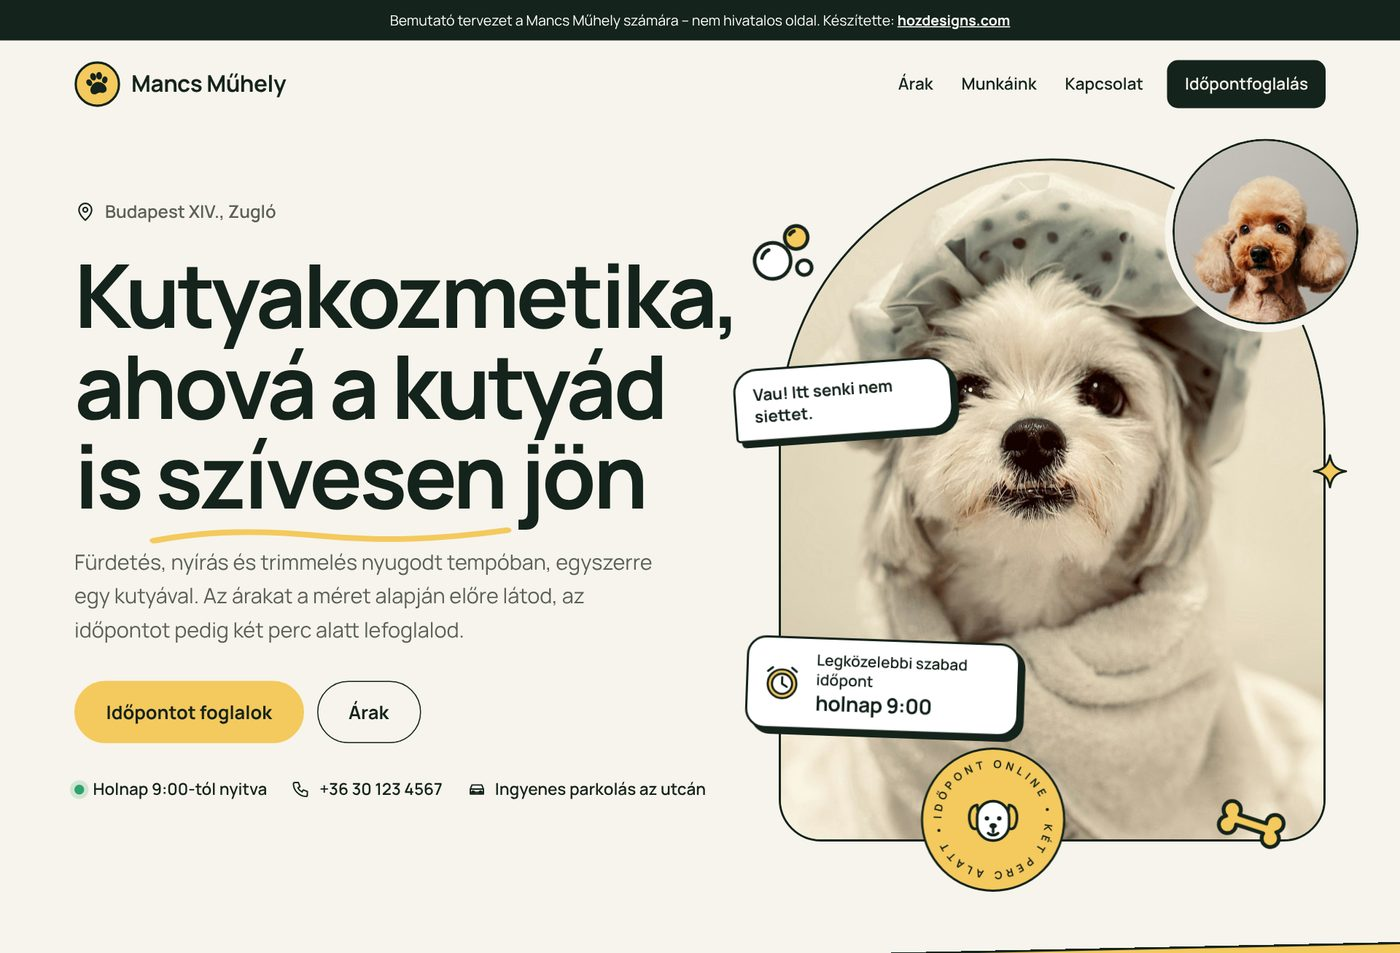
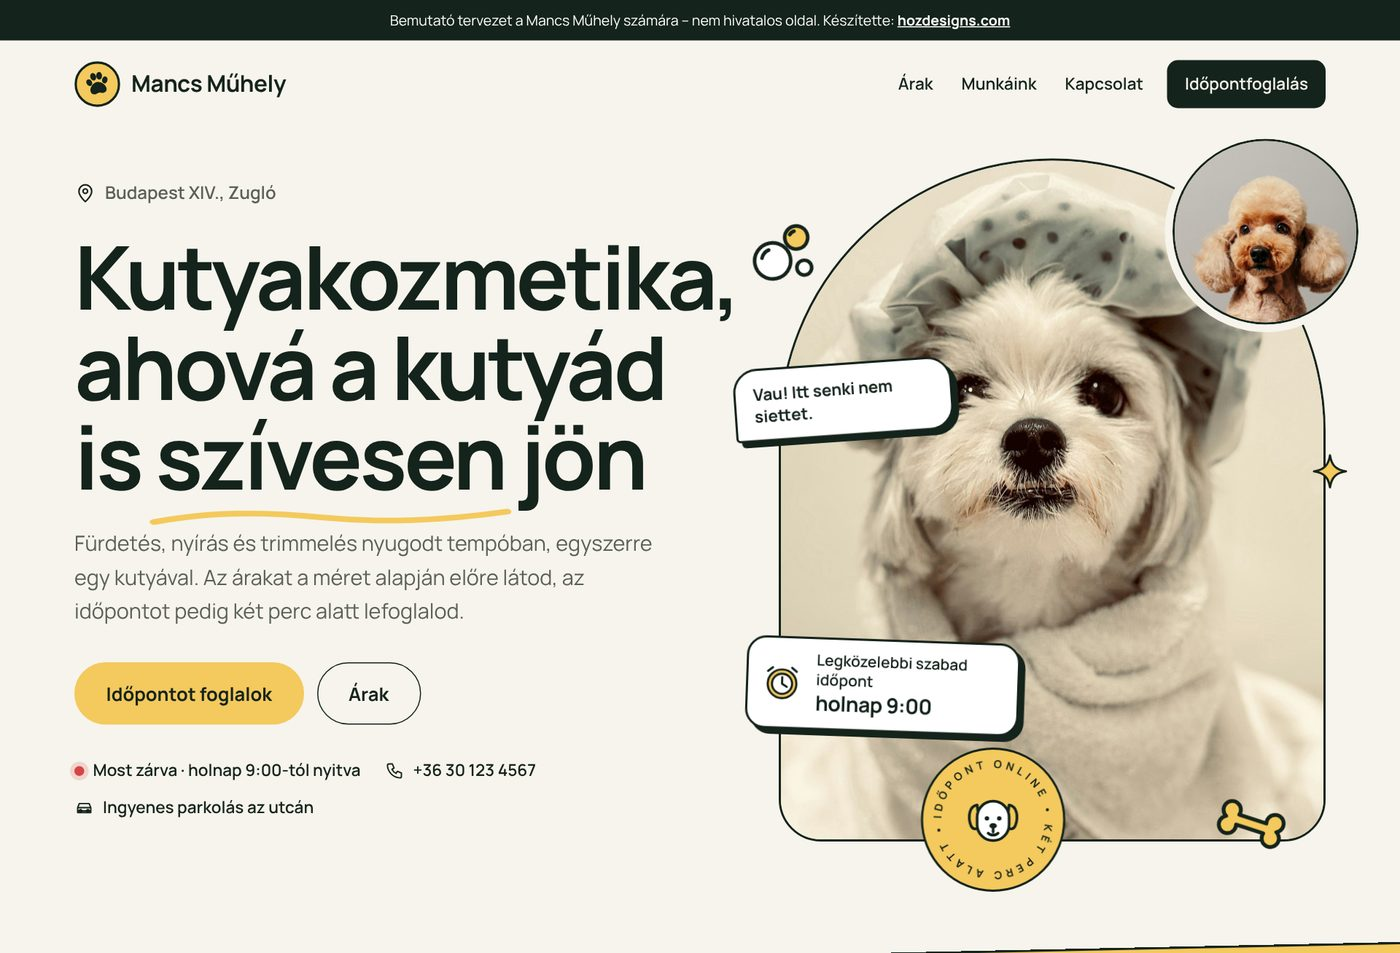
Nyitva-jelző: zárva piros pötty és 'Most zárva · … -tól nyitva'; kutyás mobil nyitóblokk
Claude-Session: https://claude.ai/code/session_016Run1nACTgNtgLbjaBZxC9

Changed region(s): [[0.0307, 0.1826, 0.5221, 0.852]]

diff --git a/minta/teszt-kutyakozmetika/index.html b/minta/teszt-kutyakozmetika/index.html
@@ -143,6 +143,7 @@ footer b{color:var(--ink)}
   .brand{font-size:18px}
 }
 .brand .mark{width:42px;height:42px;flex:none;transition:transform .35s cubic-bezier(.3,1.6,.5,1)}.brand:hover .mark{transform:rotate(-12deg) scale(1.06)}
+.dot.off{background:#D64545;box-shadow:0 0 0 4px rgba(214,69,69,.18)}
 /* kutyakozmetika */
 :root{--rb:999px}
 .hero{display:grid;grid-template-columns:minmax(0,1.08fr) minmax(0,.92fr);gap:56px;align-items:center;padding-top:28px;padding-bottom:72px}
@@ -738,10 +739,10 @@ var HZ = (function () {
     var h = D.hours; if (!h) return null; var n = new Date(), i = (n.getDay() + 6) % 7, t = h[i], m = n.getHours() * 60 + n.getMinutes();
     var row = $$('.hours tr')[i]; if (row) row.classList.add('now');
     if (t && m >= hm(t[0]) && m < hm(t[1])) return 'Most nyitva, ' + t[1] + '-ig';
-    for (var k = (t && m < hm(t[0])) ? 0 : 1; k < 8; k++) { var j = (i + k) % 7; if (h[j]) return (k === 0 ? 'Ma ' : k === 1 ? 'Holnap ' : DAY[(j + 1) % 7].replace(/^./, function (c) { return c.toUpperCase() }) + ' ') + h[j][0] + '-tól nyitva' }
+    for (var k = (t && m < hm(t[0])) ? 0 : 1; k < 8; k++) { var j = (i + k) % 7; if (h[j]) return 'Most zárva · ' + (k === 0 ? 'ma ' : k === 1 ? 'holnap ' : DAY[(j + 1) % 7] + ' ') + h[j][0] + '-tól nyitva' }
     return null;
   }
-  var st = openNow(); $$('[data-open]').forEach(function (e) { if (st) e.textContent = st; else e.hidden = true });
+  var st = openNow(); $$('[data-open]').forEach(function (e) { if (st) { e.textContent = st; var d = e.parentNode.querySelector('.dot'); if (d) d.classList.toggle('off', st.indexOf('Most nyitva') !== 0) } else e.hidden = true });
 
   /* térkép: külső beágyazás csak kattintásra (addig nincs Google-kérés) */
   document.addEventListener('click', function (e) {
